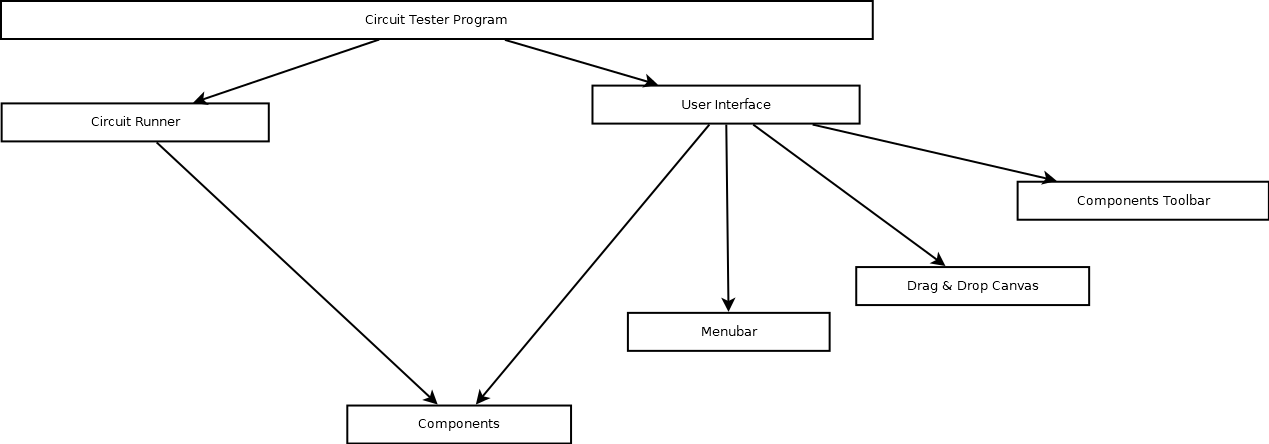
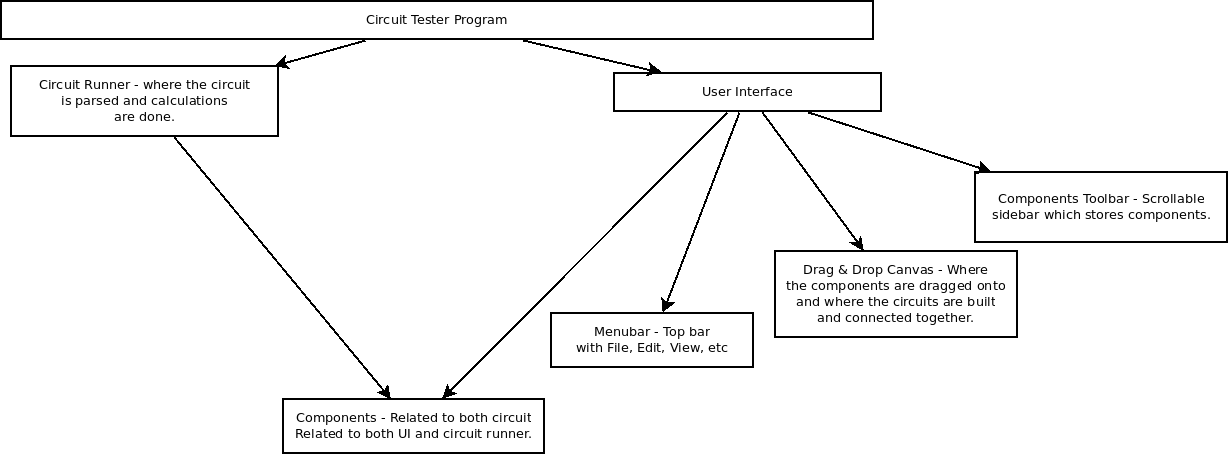
Fixed design document

diff --git a/Design/docs/design.md b/Design/docs/design.md
@@ -1,3 +1,3 @@
 # Decomposition:
 
-![Decomposition](images/decomposition.jpg)
+![Decomposition](images/decomposition.png)
